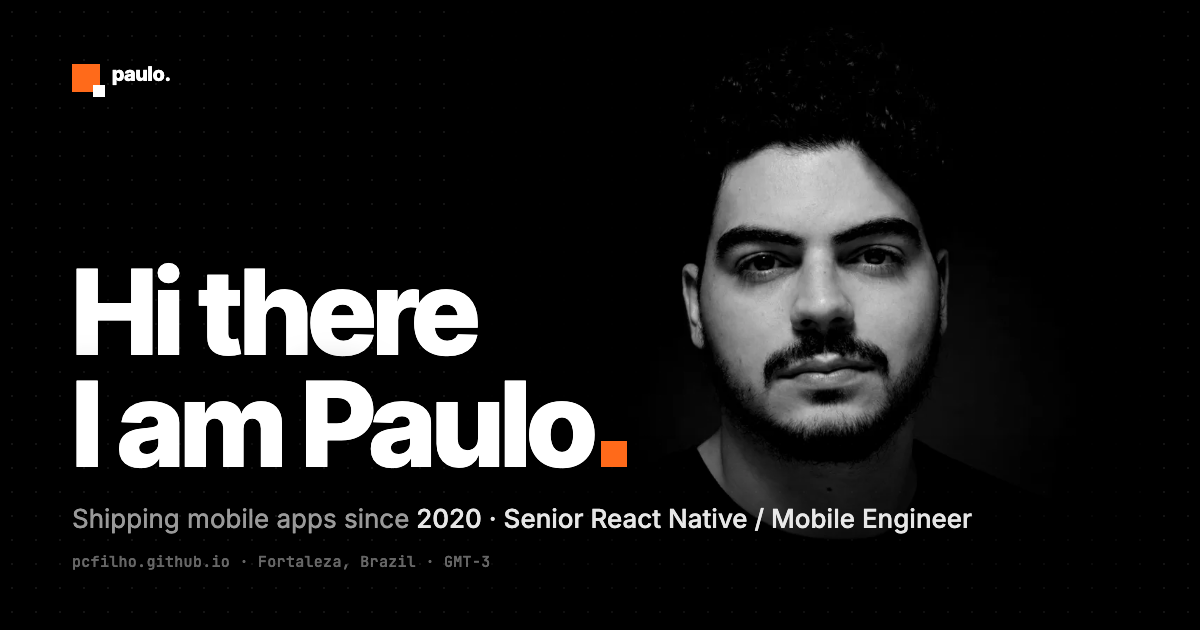
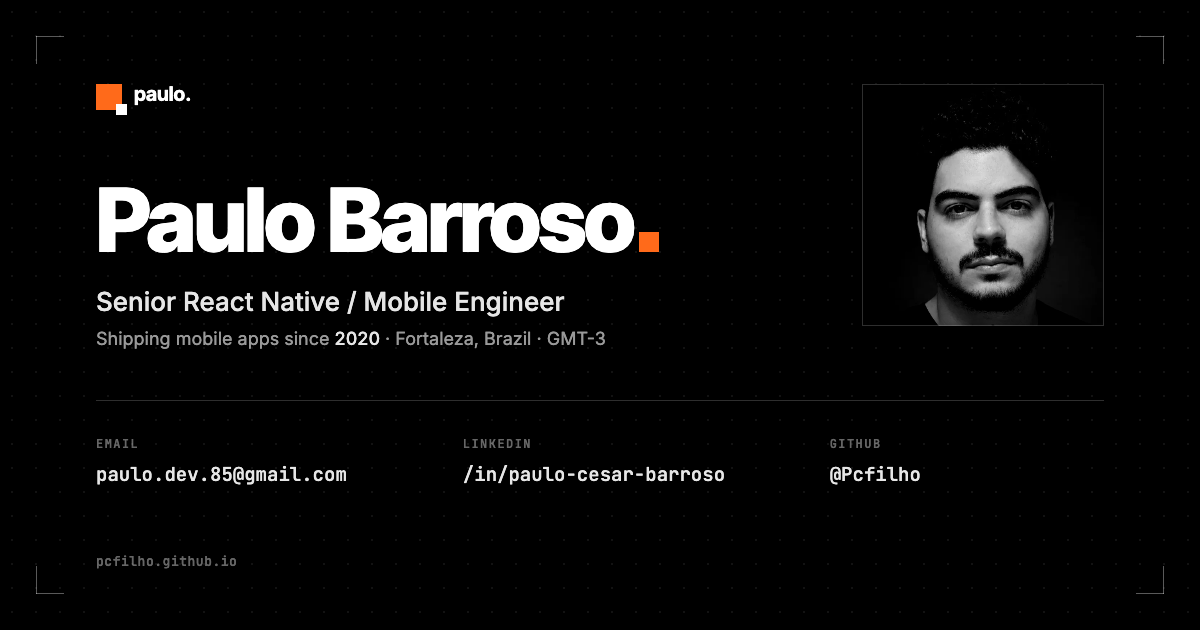
feat(og): business-card link preview with contacts and crop marks

diff --git a/index.html b/index.html
@@ -13,7 +13,7 @@
 <meta property="og:image" content="https://pcfilho.github.io/assets/og.png">
 <meta property="og:image:width" content="1200">
 <meta property="og:image:height" content="630">
-<meta property="og:image:alt" content="Paulo Barroso. Hi there, I am Paulo. Shipping mobile apps since 2020. Senior React Native / Mobile Engineer.">
+<meta property="og:image:alt" content="Business card: Paulo Barroso, Senior React Native / Mobile Engineer, shipping mobile apps since 2020. Email, LinkedIn and GitHub.">
 <meta name="twitter:card" content="summary_large_image">
 <meta name="twitter:title" content="Paulo Barroso · Senior Mobile Engineer">
 <meta name="twitter:description" content="Shipping mobile apps since 2020. Senior React Native / Mobile Engineer.">
